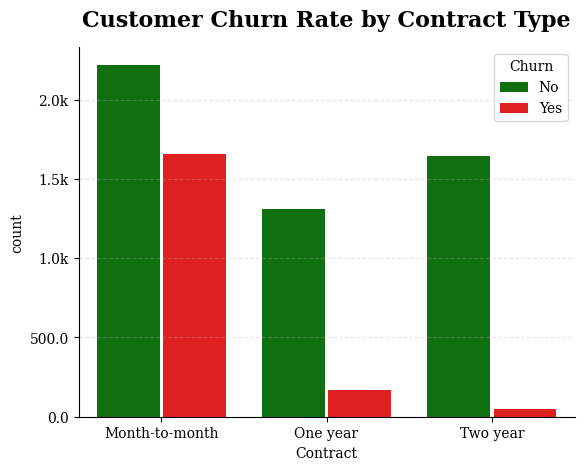
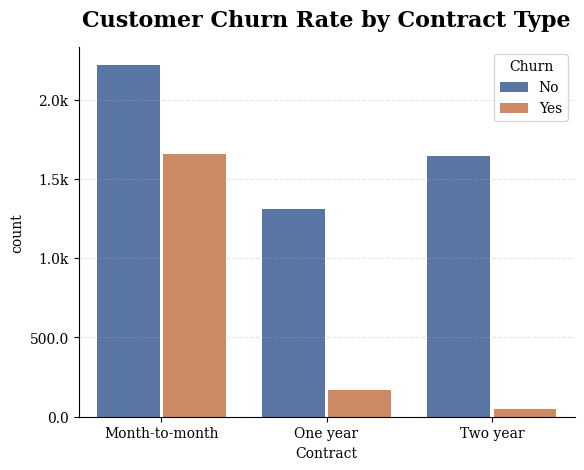
docs:analyze why the customers churn or not

diff --git a/eda.py b/eda.py
@@ -56,7 +56,9 @@ print(occur)
 #plot contract -churn 
 
 plt.rcParams['font.family'] = 'serif'
-ax = sns.countplot(data=df, x="Contract", hue='Churn',color = 'red', legend = 'brief', gap = 0.05, palette={'Yes':'red', 'No':'green' }, saturation=.75)
+# Χρώματα: Μπλε για Stay (0) και Πορτοκαλί για Churn (1)
+custom_palette = {0: "#4C72B0", 1: "#DD8452"}
+ax = sns.countplot(data=df, x="Contract", hue='Churn', legend = 'brief', gap = 0.05, palette={'No': custom_palette[0], 'Yes': custom_palette[1]}, saturation=.75)
 
 # Φορμάρισμα άξονα y σε χιλιάδες (k)
 formatter = FuncFormatter(lambda x, pos: f'{float(x/1000)}k' if x >=1000 else x)
@@ -100,7 +102,34 @@ print(f"X_test size is : {X_test.shape}")
 print(f"y_train size is : {y_train.shape}")
 print(f"y_test size is : {y_test.shape}")
 
-#apply logistic Regression only on the train data 
+#apply logistic Regression only on the train data
+# use logistic Regression as my baseline 
+clf = LogisticRegression(max_iter = 1000, random_state = 0)
+clf.fit(X_train, y_train)
+
+y_pred = clf.predict(X_test)
+
+accuracy = accuracy_score(y_test, y_pred) *100
+print(f"Logistic Regression model accuracy: {accuracy:.2f}%")
+
+conf_matrix = confusion_matrix(y_test, y_pred)
+print(f"Confusion Matrix:\n {conf_matrix}")
+class_report = classification_report(y_test, y_pred, target_names=['Stayed (0)', 'Churned (1)'])
+print("Classification report")
+print(class_report)
+
+#I continue trying applying ml enselmble algorithm -> Random Forest classifier 
+#n_estimators mean that i use 100 decision trees in my algorithm
+classifier = RandomForestClassifier(n_estimators = 100, class_weight= 'balanced', random_state = 42)
+classifier.fit(X_train, y_train)
+y_pred_rf = classifier.predict(X_test)
+conf_matrix = confusion_matrix(y_test, y_pred)
+print(f"Confusion Matrix:\n {conf_matrix}")
+class_report = classification_report(y_test, y_pred_rf, target_names=['Stayed (0)', 'Churned (1)'])
+print("Classification report")
+print(class_report)
+
+# I apply logisticRegression with class_weight = 'balanced' to deal with class imbalance
 clf = LogisticRegression(max_iter = 1000,class_weight = 'balanced', random_state = 0)
 clf.fit(X_train, y_train)
 
@@ -116,11 +145,52 @@ print("Classification report")
 print(class_report)
 
 
-classifier = RandomForestClassifier(n_estimators = 100, class_weight= 'balanced', random_state = 42)
-classifier.fit(X_train, y_train)
-y_pred_rf = classifier.predict(X_test)
-conf_matrix = confusion_matrix(y_test, y_pred)
-print(f"Confusion Matrix:\n {conf_matrix}")
-class_report = classification_report(y_test, y_pred_rf, target_names=['Stayed (0)', 'Churned (1)'])
-print("Classification report")
-print(class_report)
+#why the customers churn?
+#i actully print the df_encoded columns with the One-Hot encoding here
+print(X_train.columns)
+#i print their weights tha logistic regression assigned to them
+print(f"the weights of the classes are: {clf.coef_[0]}")
+d = {"col1": X_train.columns, "col2":clf.coef_[0]}
+df1 = pd.DataFrame(data=d)
+#sort the weights in descending order
+sorted_df1 = df1.sort_values(by = 'col2', ascending = False)
+#print the first 3
+print(f"why the customers churn: {sorted_df1.head(3)}")
+print(f"why the customers stay {sorted_df1.tail(3)}")
+
+
+#plot
+fig, axes = plt.subplots(nrows =1, ncols = 3, figsize = (18,6))
+
+# Χρώματα: Μπλε για Stay (0) και Πορτοκαλί για Churn (1)
+custom_palette = {0: "#4C72B0", 1: "#DD8452"}
+
+#in the x variable i assign the column names from my first dataset without the One-Hot encoding
+sns.countplot(data = df, x = 'Contract',hue = 'Churn', ax=axes[0], palette = custom_palette, gap = 0.05)
+formatter = FuncFormatter(lambda x, pos: f'{float(x/1000)}k' if x >=1000 else x)
+axes[0].yaxis.set_major_formatter(formatter)
+axes[0].set_title('Churn by Contract Type',fontsize=14, fontweight='bold')
+axes[0].set_ylabel('Number of Customers')
+sns.despine(top=True, right=True, left=False)
+
+sns.countplot(data=df, x='InternetService', hue='Churn', ax=axes[1], palette=custom_palette, gap = 0.05)
+formatter = FuncFormatter(lambda x, pos: f'{float(x/1000)}k' if x >=1000 else x)
+axes[1].yaxis.set_major_formatter(formatter)
+axes[1].set_title('Churn by Internet Service',fontsize=14, fontweight='bold')
+axes[1].set_ylabel('Number of customers')
+sns.despine(top=True, right=True, left=False)
+
+sns.countplot(data=df, y='PaymentMethod', hue='Churn', ax=axes[2], palette=custom_palette, gap = 0.05)
+formatter = FuncFormatter(lambda x, pos: f'{float(x/1000)}k' if x >=1000 else x)
+axes[2].xaxis.set_major_formatter(formatter)
+axes[2].set_title('Churn by Payment Method', fontsize=14, fontweight='bold')
+axes[2].set_xlabel('Number of customers')
+sns.despine(top=True, right=True, left=False)
+# Κλειδώνουμε τις θέσεις του άξονα y για να μην μας βγάλει warning η βιβλιοθήκη
+axes[2].set_yticks(axes[2].get_yticks())
+
+# Παίρνουμε τα ονόματα, αντικαθιστούμε το κενό με αλλαγή γραμμής (\n) και τα ξαναβάζουμε
+axes[2].set_yticklabels([label.get_text().replace(' ', '\n') for label in axes[2].get_yticklabels()])
+
+plt.tight_layout()
+plt.show()
